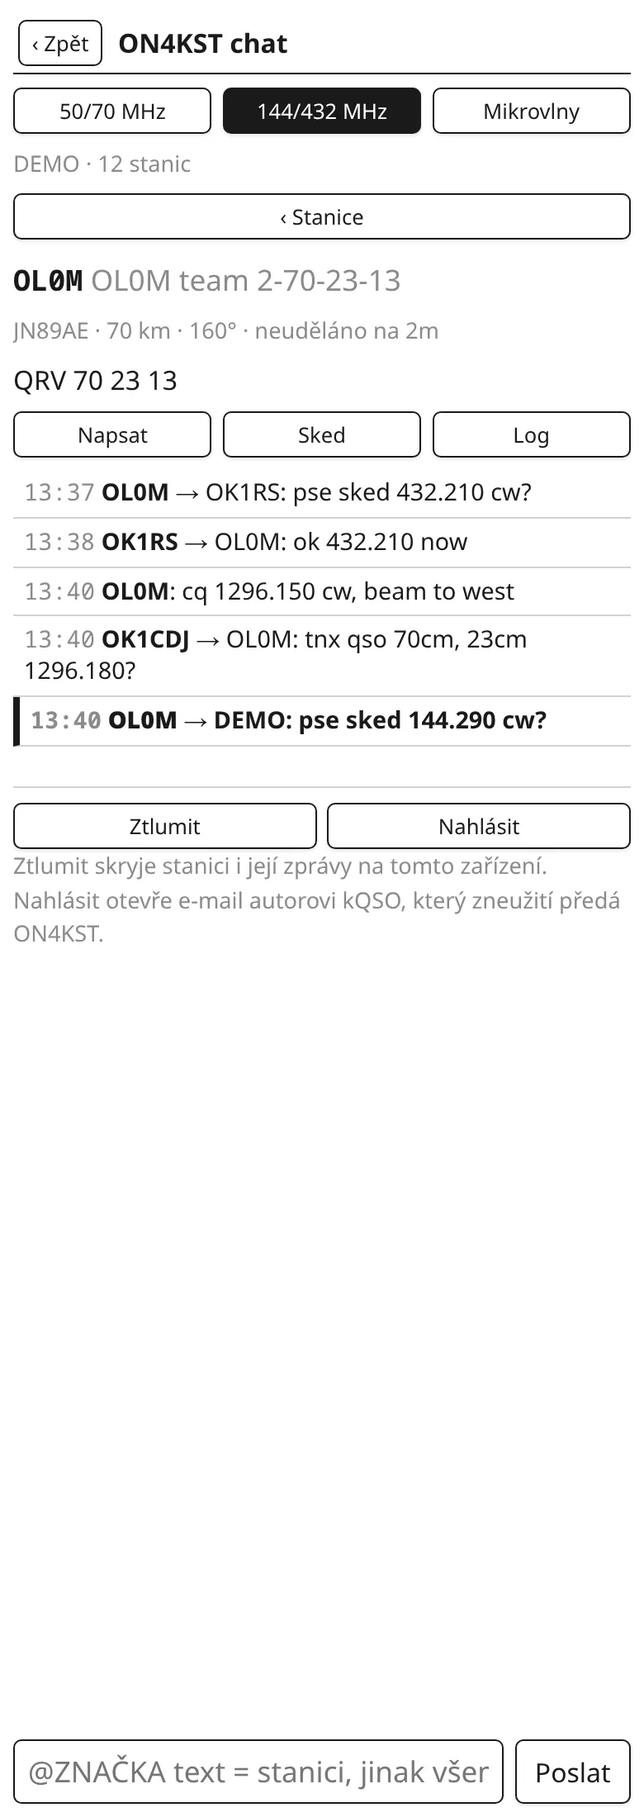
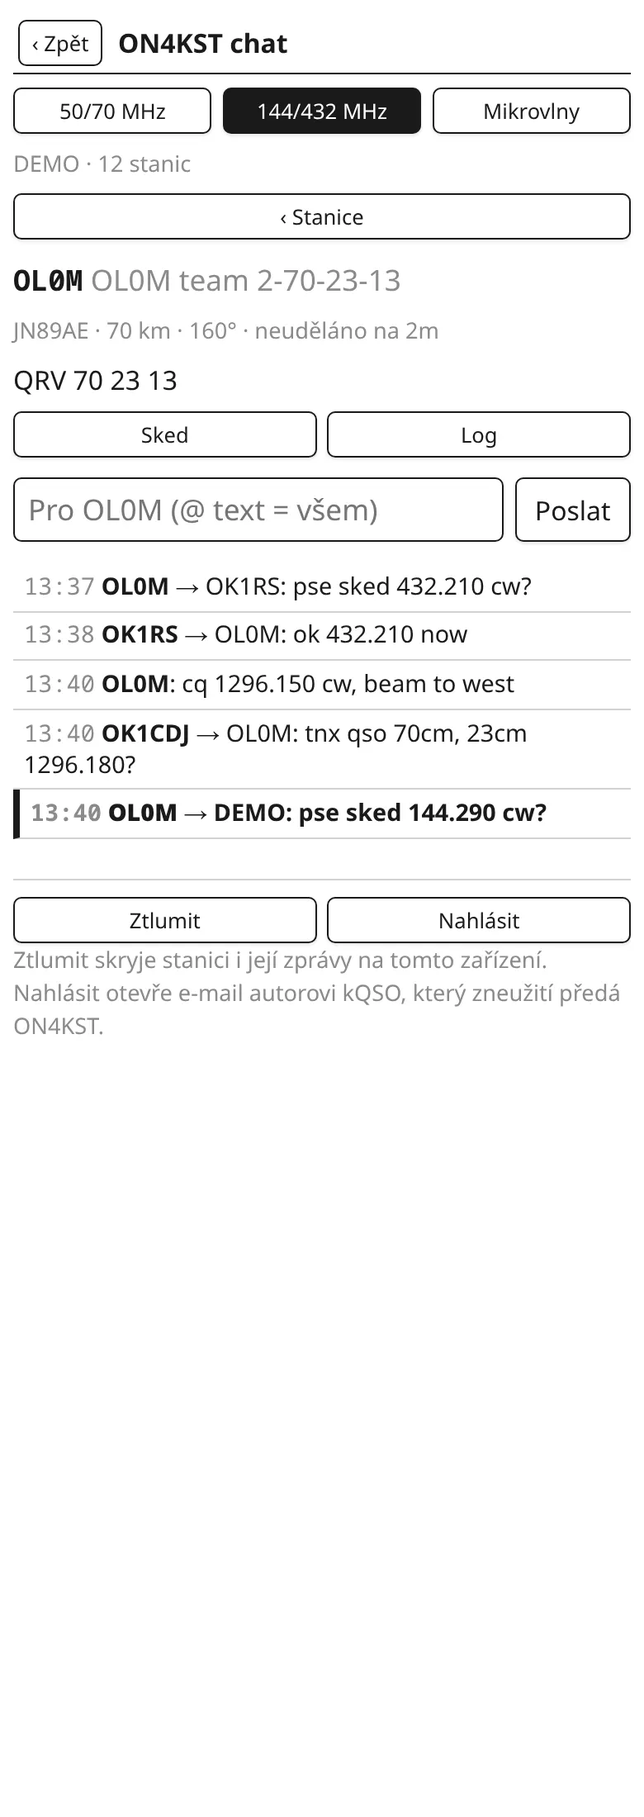
1.17 docs: CW decoder in the apps, scatter reports, chat changes
Manual cs/en (CW in the apps and the microphone, scatter / aurora
reports, stations up to N km, the message line in a station's details,
chat locators), chat screenshots regenerated, in-app help, the CW hint in
Settings, privacy policy (microphone), What's new 1.17, CHANGELOG, README,
Play changelogs 26.

Claude-Session: https://claude.ai/code/session_01UTFgsLe4XVZEAqmAnjRu9M

diff --git a/web/public/manual/cs.html b/web/public/manual/cs.html
@@ -75,6 +75,7 @@
 <h3 id="reports">Reporty</h3>
 <p>Mimo VKV závod je <b>holé číslo za značkou přijatý report</b>: <code>OK1ABC 57</code>. Odeslaný report je výchozí <b>59</b> (v CW <b>599</b>) a obvykle ho psát nemusíš. Když dáváš jiný, napiš ho s <b>T</b> na začátku: <code>OK1ABC 57 T55</code> = přijato 57, odesláno 55. Když přijatý report nenapíšeš vůbec, uloží se také 59 / 599. Štítky ukazují <b>RST</b> (přijatý) a <b>TX-RST</b> (odeslaný).</p>
 <p>Ve VKV závodě je holé číslo za značkou pořadové číslo, report se k němu připisuje zepředu (<code>57123</code>), viz výše.</p>
+<p><b>Scatter a aurora:</b> report s písmenem za značkou, <code>OK1ABC 59S</code> (rain / aircraft scatter) nebo <code>59A</code> (aurora, v CW <code>599A</code>). Ve VKV závodě i spojený s číslem: <code>59S012</code> nebo <code>59S 012</code>. Odeslaný report s písmenem napiš za značku jako <code>T59S</code>. Do EDI i ADIF se zapíše tak, jak je (<code>59S</code>).</p>
 
 <h3>Po částech, jak to slyšíš</h3>
 <p>Spojení <b>nemusí být celé na jednom řádku</b>. Každou část můžeš poslat zvlášť Enterem, třeba jak ji protistanice zrovna odvysílala: značku, pak číslo, pak lokátor. Štítky ukazují, co už máš a co chybí. Ve VKV závodě se spojení zapíše prázdným Enterem až ve chvíli, kdy má značku, číslo i lokátor; do té doby zůstane otevřené.</p>
@@ -83,10 +84,10 @@
 <figure class="crop"><img src="img/cs/logging-step2.webp" alt="Krok 2" width="390" height="170" loading="lazy"><figcaption>2. <code>123</code> ⏎: přibylo číslo.</figcaption></figure>
 <figure class="crop"><img src="img/cs/logging-step3.webp" alt="Krok 3" width="390" height="170" loading="lazy"><figcaption>3. <code>JN99AF</code>: lokátor, QRB a azimut. Pak ⏎ a prázdný ⏎ zapíše.</figcaption></figure>
 </div>
-<p>Překlep ve značce opravíš tak, že napíšeš novou: další značka nahradí tu předchozí, report a lokátor zůstanou. Ve VKV závodě můžeš začít i lokátorem, když ho uslyšíš první; lišta pak nabídne značky, které databáze na tom lokátoru zná.</p>
+<p>Překlep ve značce opravíš tak, že napíšeš novou: další značka nahradí tu předchozí, report a lokátor zůstanou. Ve VKV závodě můžeš začít i lokátorem, když ho uslyšíš první; lišta pak nabídne značky, které na tom lokátoru zná chat ON4KST (pokud je připojený) a databáze.</p>
 
 <h3>Návrhy, lokátor z databáze a duplicity</h3>
-<p>Od dvou znaků lišta nabízí značky z databáze (přibalený seznam pro typ logu plus stanice, se kterými už jsi pracoval). Klepnutí značku doplní. Když databáze zná lokátor stanice, nabídne ho jako <b>+ lokátor</b>: klepnutí (nebo Alt+X) ho vezme.</p>
+<p>Od dvou znaků lišta nabízí značky z databáze (přibalený seznam pro typ logu plus stanice, se kterými už jsi pracoval). Klepnutí značku doplní. Když lokátor stanice známe, nabídne ho jako <b>+ lokátor</b>: klepnutí (nebo Alt+X) ho vezme. Bere se z tohoto logu (stanice už je na jiném pásmu), ve VKV závodě s připojeným chatem pak lokátor, který si stanice nastavila v ON4KST (je dnešní), a nakonec z databáze.</p>
 <div class="figs">
 <figure class="crop"><img src="img/cs/logging-suggest.webp" alt="Návrhy" width="390" height="170" loading="lazy"><figcaption>Návrhy značek; inverzně ty, které už jsou v logu.</figcaption></figure>
 <figure class="crop"><img src="img/cs/logging-prefill.webp" alt="Lokátor z databáze" width="390" height="170" loading="lazy"><figcaption>Značka a číslo zapsané, databáze nabízí <b>+ JO50HV</b>.</figcaption></figure>
@@ -209,12 +210,12 @@
 <figure class="crop"><img src="img/cs/chat-consent.webp" alt="Pravidla chatu" width="374" height="424" loading="lazy"><figcaption>Pravidla před prvním připojením.</figcaption></figure>
 </div>
 <p><b>Zprávy:</b> nejnovější dole; zprávy pro tebe jsou tučně s čárou vlevo a <b>Jen pro mě</b> ukáže jen je. Zprávy stanic, které už máš na pásmu logu, jsou šedé. Klepnutí na zprávu napíše do řádku dole <code>@ZNAČKA</code> odesílatele, stačí dopsat text a Enter. <code>@OK1ABC text</code> jde stanici, text bez <code>@</code> všem v místnosti. Řádek přijme i příkazy ON4KST tak, jak jsou: <code>/SETNAME Ondra 2/70/23</code> (jméno, často s pásmy), <code>/SETLOC JN79US</code>.</p>
-<p><b>Stanice:</b> lokátor, vzdálenost a azimut od lokátoru logu. Řadí se podle značky, km nebo azimutu; druhé klepnutí na stejné řazení ho obrátí (▲ / ▼). <b>Skrýt hotové</b> schová stanice, které už máš na pásmu logu, <b>Skrýt away</b> ty, které jsou pryč. Nově příchozí stanice je podtržená. Za azimutem jsou <b>pásma, na kterých je stanice QRV</b> (kromě pásma logu, přeškrtnutá už máš): kQSO je čte ze jména (<code>Bert 2/70/23</code>, <code>6&amp;2m</code>), ze zpráv stanice (<code>qrv 1296.150</code>, <code>no 23</code>) a ze skedů, které jí přišly, a přidá ta z databáze značek. Stejně je ukáže i seznam pod závodním panelem a štítek QRV při zápisu spojení. <b>Sked</b> napíše do řádku žádost o sked, <b>Log</b> se vrátí do logu se značkou a lokátorem na řádku. Na úzkém displeji se jména nezobrazují.</p>
+<p><b>Stanice:</b> lokátor, vzdálenost a azimut od lokátoru logu. Řadí se podle značky, km nebo azimutu; druhé klepnutí na stejné řazení ho obrátí (▲ / ▼). <b>Skrýt hotové</b> schová stanice, které už máš na pásmu logu, <b>Skrýt away</b> ty, které jsou pryč. <b>Do … km</b> ukáže jen stanice do té vzdálenosti (výchozí 900 km; prázdné pole = bez omezení, stanice bez lokátoru zůstávají); platí i pro seznam pod závodním panelem. Nově příchozí stanice je podtržená. Za azimutem jsou <b>pásma, na kterých je stanice QRV</b> (kromě pásma logu, přeškrtnutá už máš): kQSO je čte ze jména (<code>Bert 2/70/23</code>, <code>6&amp;2m</code>), ze zpráv stanice (<code>qrv 1296.150</code>, <code>no 23</code>) a ze skedů, které jí přišly, a přidá ta z databáze značek. Stejně je ukáže i seznam pod závodním panelem a štítek QRV při zápisu spojení. <b>Sked</b> napíše do řádku žádost o sked, <b>Log</b> se vrátí do logu se značkou a lokátorem na řádku. Na úzkém displeji se jména nezobrazují.</p>
 <div class="figs">
 <figure class="phone"><img src="img/cs/chat-messages.webp" alt="Zprávy" width="390" height="844" loading="lazy"><figcaption>Zprávy; poslední je pro mě.</figcaption></figure>
 <figure class="phone"><img src="img/cs/chat-stations.webp" alt="Stanice" width="390" height="844" loading="lazy"><figcaption>Stanice podle vzdálenosti.</figcaption></figure>
 </div>
-<p><b>Detail stanice:</b> <b>⋯</b> u stanice nebo dlouhý stisk stanice či zprávy. Ukáže údaje stanice, jestli ji máš na pásmu, její zprávy a rozhovor s tebou a tlačítka Napsat, Sked a Log. Dole, stranou od tlačítek pro závod, jsou:</p>
+<p><b>Detail stanice:</b> <b>⋯</b> u stanice nebo dlouhý stisk stanice či zprávy. Ukáže údaje stanice, jestli ji máš na pásmu, tlačítka Sked a Log a pod nimi <b>řádek pro zprávu této stanici</b> (stačí text a Enter, odejde jako <code>@ZNAČKA text</code>), pak její zprávy a rozhovor s tebou. Dole, stranou od tlačítek pro závod, jsou:</p>
 <ul>
 <li><b>Ztlumit</b>: skryje stanici na tomto zařízení (v chatu, pod závodním panelem i v návrzích) a její zprávy pro tebe se nepočítají. Ztlumené stanice a zrušení ztlumení najdeš v Nastavení → ON4KST chat.</li>
 <li><b>Nahlásit</b>: otevře e-mail autorovi kQSO se stanicí a jejími zprávami (dlouze stisknutá zpráva první); zneužití předá ON4KST.</li>
@@ -325,10 +326,10 @@
 <figure class="crop"><img src="img/cs/settings-keyer-on.webp" alt="Klíčovač M5" width="374" height="1540" loading="lazy"><figcaption>Klíčovač M5: rychlost, ESM a makra pro VKV závod / RUN.</figcaption></figure>
 
 <h3 id="cw">CW dekodér</h3>
-<p>kQSO dekóduje CW ze zvuku rádia neuronovou sítí <a href="https://github.com/e04/web-deep-cw-decoder">DeepCW</a> (autor e04, licence MIT). Dekódovaný text běží pod hlavičkou logu a klepnutím na značku, report, číslo nebo lokátor ho vložíš do řádku. Běží v prohlížeči <b>Chrome</b> nebo <b>Edge</b> na počítači; Firefox, Safari a aplikace pro Android a iOS ho zatím nemají.</p>
+<p>kQSO dekóduje CW ze zvuku rádia neuronovou sítí <a href="https://github.com/e04/web-deep-cw-decoder">DeepCW</a> (autor e04, licence MIT). Dekódovaný text běží pod hlavičkou logu a klepnutím na značku, report, číslo nebo lokátor ho vložíš do řádku. Běží v aplikaci pro <b>Android</b> a <b>iOS</b> a na webu v prohlížeči <b>Chrome</b> nebo <b>Edge</b> na počítači; Firefox a Safari ho nemají.</p>
 <ul>
 <li><b>Zapnutí:</b> Nastavení → CW dekodér → <b>Stáhnout</b> (jednou asi 14 MB, pak funguje i bez sítě) → <b>Zapnout</b>. Dekodér poslouchá jen v otevřeném logu při módu CW; v SSB, FM a v seznamu logů je zvuk i dekodér v klidu. V logu ho zapíná a vypíná <kbd>Alt+U</kbd>.</li>
-<li><b>Zvukový vstup:</b> USB zvuková karta rádia (IC-7300, 9700, 705 … mají zvuk na stejném USB kabelu jako CI-V) nebo linkový vstup počítače. Poprvé prohlížeč požádá o povolení mikrofonu; tlačítko <i>Zobrazit zvukové vstupy</i> v Nastavení ho vyvolá dřív, aby šel vstup vybrat podle názvu.</li>
+<li><b>Zvukový vstup:</b> USB zvuková karta rádia (IC-7300, 9700, 705 … mají zvuk na stejném USB kabelu jako CI-V) nebo linkový vstup počítače. Na telefonu a tabletu stačí <b>mikrofon</b> u reproduktoru rádia nebo sluchátek, případně zvukový vstup přes USB. Poprvé se prohlížeč nebo aplikace zeptá na povolení mikrofonu; tlačítko <i>Zobrazit zvukové vstupy</i> v Nastavení ho vyvolá dřív, aby šel vstup vybrat podle názvu. Zvuk se dekóduje jen v zařízení a nikam se neposílá.</li>
 <li><b>Jiná záložka prohlížeče</b> (WebSDR, KiwiSDR): vyber ji jako vstup, v logu klepni na <i>Vyber záložku s SDR</i> a v nabídce prohlížeče zaškrtni <i>Sdílet také zvuk karty</i>. SDR přitom slyšíš dál.</li>
 <li><b>Výška CW tónu</b> v Nastavení má odpovídat nastavení CW pitch v rádiu (často 600–700 Hz). <b>Úzký model</b> (výchozí) dekóduje stanici právě na této výšce tónu a málo zatěžuje procesor. <b>Široký model</b> (dalších 15 MB) slyší vše mezi 400 a 1200 Hz nebo jen ve filtru kolem tónu; hodí se na slabý nebo ujíždějící signál.</li>
 </ul>

diff --git a/web/public/manual/en.html b/web/public/manual/en.html
@@ -75,6 +75,7 @@
 <h3 id="reports">Reports</h3>
 <p>Outside a VHF contest, <b>a bare number after the call is the received report</b>: <code>OK1ABC 57</code>. The sent report defaults to <b>59</b> (<b>599</b> in CW) and you usually don't type it. When you give another one, type it with a <b>T</b> in front: <code>OK1ABC 57 T55</code> = received 57, sent 55. If you don't type the received report at all, 59 / 599 is saved too. The chips show <b>RST</b> (received) and <b>TX-RST</b> (sent).</p>
 <p>In a VHF contest a bare number after the call is the serial; a report goes in front of it (<code>57123</code>), see above.</p>
+<p><b>Scatter and aurora:</b> a report with a letter after the call, <code>OK1ABC 59S</code> (rain / aircraft scatter) or <code>59A</code> (aurora, <code>599A</code> in CW). In a VHF contest also joined with the serial: <code>59S012</code> or <code>59S 012</code>. A sent report with a letter goes after the call as <code>T59S</code>. EDI and ADIF get it as it is (<code>59S</code>).</p>
 
 <h3>Piece by piece, as you hear it</h3>
 <p>A QSO <b>doesn't have to be on one line</b>. Send each part with its own Enter, the way the other station gave it: the call, then the number, then the locator. The chips show what you have and what is missing. In a VHF contest an empty Enter saves the QSO only once it has the call, the number and the locator; until then it stays open.</p>
@@ -83,10 +84,10 @@
 <figure class="crop"><img src="img/en/logging-step2.webp" alt="Step 2" width="390" height="170" loading="lazy"><figcaption>2. <code>123</code> ⏎: the number is in.</figcaption></figure>
 <figure class="crop"><img src="img/en/logging-step3.webp" alt="Step 3" width="390" height="170" loading="lazy"><figcaption>3. <code>JN99AF</code>: locator, QRB and azimuth. Then ⏎ and an empty ⏎ saves.</figcaption></figure>
 </div>
-<p>To fix a mistyped call, type the new one: a new call replaces the earlier one, the report and locator stay. In a VHF contest you can also start with the locator when you hear it first; the strip then offers the calls the database knows at that locator.</p>
+<p>To fix a mistyped call, type the new one: a new call replaces the earlier one, the report and locator stay. In a VHF contest you can also start with the locator when you hear it first; the strip then offers the calls the ON4KST chat (when connected) and the database know at that locator.</p>
 
 <h3>Suggestions, locator from the database, dupes</h3>
-<p>After two characters the strip offers calls from the database (the bundled list for the log type plus the stations you have worked). A tap fills the call in. When the database knows the station's locator, it offers it as <b>+ locator</b>: a tap (or Alt+X) takes it.</p>
+<p>After two characters the strip offers calls from the database (the bundled list for the log type plus the stations you have worked). A tap fills the call in. When the station's locator is known, it offers it as <b>+ locator</b>: a tap (or Alt+X) takes it. It comes from this log (the station is already in on another band), then in a VHF contest with the chat connected the locator the station has set in ON4KST (today's), and last from the database.</p>
 <div class="figs">
 <figure class="crop"><img src="img/en/logging-suggest.webp" alt="Suggestions" width="390" height="170" loading="lazy"><figcaption>Call suggestions; inverted ones are already in the log.</figcaption></figure>
 <figure class="crop"><img src="img/en/logging-prefill.webp" alt="Locator from the database" width="390" height="170" loading="lazy"><figcaption>Call and number in, the database offers <b>+ JO50HV</b>.</figcaption></figure>
@@ -209,12 +210,12 @@
 <figure class="crop"><img src="img/en/chat-consent.webp" alt="Chat rules" width="374" height="446" loading="lazy"><figcaption>The rules before the first connection.</figcaption></figure>
 </div>
 <p><b>Messages:</b> newest at the bottom; messages to you are bold with a bar on the left, and <b>Only to me</b> shows just those. Messages of stations you already have on the log's band are grey. A tap on a message puts the sender's <code>@CALL</code> into the line at the bottom: add the text and press Enter. <code>@OK1ABC text</code> goes to that station, text without <code>@</code> to everyone in the room. The line also takes ON4KST commands as typed: <code>/SETNAME Ondra 2/70/23</code> (the name, often with the bands), <code>/SETLOC JN79US</code>.</p>
-<p><b>Stations:</b> locator, distance and bearing from the log's locator. Sort by call, km or bearing; tapping the same sort again reverses it (▲ / ▼). <b>Hide worked</b> hides the stations you already have on the log's band, <b>Hide away</b> those who are away. A station that just joined is underlined. After the bearing come the <b>bands the station is QRV on</b> (except the log's band; struck out = already worked): kQSO reads them from the name (<code>Bert 2/70/23</code>, <code>6&amp;2m</code>), from the station's messages (<code>qrv 1296.150</code>, <code>no 23</code>) and from skeds sent to it, and adds those from the callsign database. The list under the contest panel and the QRV chip while logging show them too. <b>Sked</b> puts the sked request into the line, <b>Log</b> goes back to the log with the call and locator typed in. On a narrow screen the names are left out.</p>
+<p><b>Stations:</b> locator, distance and bearing from the log's locator. Sort by call, km or bearing; tapping the same sort again reverses it (▲ / ▼). <b>Hide worked</b> hides the stations you already have on the log's band, <b>Hide away</b> those who are away. <b>Up to … km</b> shows only the stations within that distance (900 km by default; an empty field = no limit, stations without a locator stay); it applies to the list under the contest panel too. A station that just joined is underlined. After the bearing come the <b>bands the station is QRV on</b> (except the log's band; struck out = already worked): kQSO reads them from the name (<code>Bert 2/70/23</code>, <code>6&amp;2m</code>), from the station's messages (<code>qrv 1296.150</code>, <code>no 23</code>) and from skeds sent to it, and adds those from the callsign database. The list under the contest panel and the QRV chip while logging show them too. <b>Sked</b> puts the sked request into the line, <b>Log</b> goes back to the log with the call and locator typed in. On a narrow screen the names are left out.</p>
 <div class="figs">
 <figure class="phone"><img src="img/en/chat-messages.webp" alt="Messages" width="390" height="844" loading="lazy"><figcaption>Messages; the last one is to me.</figcaption></figure>
 <figure class="phone"><img src="img/en/chat-stations.webp" alt="Stations" width="390" height="844" loading="lazy"><figcaption>Stations by distance.</figcaption></figure>
 </div>
-<p><b>Station details:</b> <b>⋯</b> on a station, or a long press on a station or a message. It shows the station, whether you have it on the band, its messages and your conversation, and Write, Sked and Log. At the bottom, away from the contest buttons:</p>
+<p><b>Station details:</b> <b>⋯</b> on a station, or a long press on a station or a message. It shows the station, whether you have it on the band, Sked and Log and under them <b>a line for a message to this station</b> (just the text and Enter, it goes as <code>@CALL text</code>), then its messages and your conversation. At the bottom, away from the contest buttons:</p>
 <ul>
 <li><b>Mute</b>: hides the station on this device (in the chat, under the contest panel and in the suggestions), and its messages to you are not counted. Muted stations, and unmuting, are in Settings → ON4KST chat.</li>
 <li><b>Report</b>: opens an e-mail to the kQSO author with the station and its messages (the long-pressed message first); abuse is passed on to ON4KST.</li>
@@ -325,10 +326,10 @@
 <figure class="crop"><img src="img/en/settings-keyer-on.webp" alt="M5 keyer" width="374" height="1540" loading="lazy"><figcaption>M5 keyer: speed, ESM and the VHF contest / RUN macros.</figcaption></figure>
 
 <h3 id="cw">CW decoder</h3>
-<p>kQSO decodes CW from the radio's audio with <a href="https://github.com/e04/web-deep-cw-decoder">DeepCW</a>, a neural network (by e04, MIT licence). The decoded text runs under the log's header, and a tap on a call, report, serial or locator puts it into the line. It runs in <b>Chrome</b> or <b>Edge</b> on a computer; Firefox, Safari and the Android and iOS apps don't have it yet.</p>
+<p>kQSO decodes CW from the radio's audio with <a href="https://github.com/e04/web-deep-cw-decoder">DeepCW</a>, a neural network (by e04, MIT licence). The decoded text runs under the log's header, and a tap on a call, report, serial or locator puts it into the line. It runs in the <b>Android</b> and <b>iOS</b> apps and on the web in <b>Chrome</b> or <b>Edge</b> on a computer; Firefox and Safari don't have it.</p>
 <ul>
 <li><b>Turning it on:</b> Settings → CW decoder → <b>Download</b> (about 14 MB once, then it works offline) → <b>Turn on</b>. The decoder listens only while a log is open in CW; in SSB, FM and in the list of logs the audio and the decoder rest. In a log <kbd>Alt+U</kbd> turns it on and off.</li>
-<li><b>Audio input:</b> the radio's USB sound card (the IC-7300, 9700, 705 … have audio on the same USB cable as CI-V) or the computer's line input. The first time the browser asks for the microphone permission; <i>Show the audio inputs</i> in Settings asks earlier, so the input can be picked by its name.</li>
+<li><b>Audio input:</b> the radio's USB sound card (the IC-7300, 9700, 705 … have audio on the same USB cable as CI-V) or the computer's line input. On a phone or tablet the <b>microphone</b> next to the radio's speaker or headphones is enough, or a USB audio input. The first time the browser or the app asks for the microphone permission; <i>Show the audio inputs</i> in Settings asks earlier, so the input can be picked by its name. The audio is decoded on the device and never sent anywhere.</li>
 <li><b>Another browser tab</b> (WebSDR, KiwiSDR): pick it as the input, in the log tap <i>Pick the tab with the SDR</i> and in the browser's dialog tick <i>Also share tab audio</i>. You keep hearing the SDR.</li>
 <li><b>CW pitch</b> in Settings should match the radio's CW pitch setting (often 600–700 Hz). The <b>narrow model</b> (default) decodes the station right at that pitch and is light on the CPU. The <b>wide model</b> (another 15 MB) hears everything between 400 and 1200 Hz, or only within a filter around the pitch; for a weak or drifting signal.</li>
 </ul>

diff --git a/web/public/privacy.html b/web/public/privacy.html
@@ -16,7 +16,7 @@
 </head>
 <body>
 <h1>kQSO — privacy policy</h1>
-<p class="muted">Applies to the kQSO apps for Android and iOS (iPhone, iPad) and the web app at kqso.ok1cdj.com. Last updated 2026-10-25.</p>
+<p class="muted">Applies to the kQSO apps for Android and iOS (iPhone, iPad) and the web app at kqso.ok1cdj.com. Last updated 2026-10-29.</p>
 
 <h2>Your data stays on your device</h2>
 <p>Logs, QSOs, the callsign database and settings are stored only on your device (Android: files in the app's storage; iOS: the app's Documents folder, which you also see in the Files app; web: the browser's private storage). kQSO has no account, no server of its own for your data, no ads and no analytics in the app.</p>
@@ -26,6 +26,7 @@
 <li><b>Offline references</b> — the lists of SOTA, POTA, WWFF, GMA and TOTA references come from kqso.ok1cdj.com by locator field (a square of about 1000 km, e.g. JO): the field around you after the locate button in an Activation log, others when you download them in Settings. The server sees your IP address and the field, never your position. The lists stay on your device and work offline.</li>
 <li><b>Wavelog push</b> — only when you tap it: the log is sent to the Wavelog server <i>you</i> set up, with your own API token.</li>
 <li><b>ON4KST chat</b> — only when you connect it (Settings → ON4KST chat, or the chat in a VHF contest log): kQSO logs in to the ON4KST chat (www.on4kst.org, run by ON4KST, not by kQSO) with your ON4KST call and password and sends there what you write. The ON4KST protocol is unencrypted, so the password travels in clear text; kQSO stores it only on your device. The Android and iOS apps connect to on4kst.org directly. A browser can't, so the web app goes through a relay at kst.kqso.ok1cdj.com, which only passes the data on: it never stores or logs the content (it logs only when a connection opens, closes or is refused and why, your IP address and the number of bytes). The chat's messages are kept in memory while the app runs and are not saved; muted stations and the sked settings are stored on your device like other settings. With the call DEMO nothing is sent anywhere. <b>Report</b> opens an e-mail to ondra@ok1cdj.com in your mail app with the station and its messages; nothing goes out until you send it.</li>
+<li><b>Microphone</b> — only when you turn on the CW decoder (Settings → CW decoder): kQSO records the radio's audio (the microphone or an audio input) and decodes it on your device. The audio is never stored or sent anywhere. The decoder's model files are downloaded once from kqso.ok1cdj.com when you tap Download; the server sees only your IP address.</li>
 <li><b>Rain radar</b> — only when you switch it on (off by default): map tiles are loaded from RainViewer (api.rainviewer.com, tilecache.rainviewer.com). They see your IP address and the map area, never any log data.</li>
 <li><b>New-version check</b> — Android app installed from GitHub only, at most once a day, switchable in Settings: asks the GitHub API for the latest release. Not done when the app comes from Google Play, and never in the iOS app (the App Store keeps it up to date).</li>
 <li><b>Web app statistics</b> — the web app (not the Android or iOS app) counts anonymous screen views and a few action names on a self-hosted Umami server (stats.ok1cdj.com), without cookies and never with log content. Switchable in Settings.</li>
@@ -49,7 +50,7 @@ Developed by Ondřej Koloničný, OK1CDJ. Source code: <a href="https://github.c
 
 <h1 lang="cs">kQSO — zásady ochrany soukromí</h1>
 <div lang="cs">
-<p class="muted">Platí pro aplikace kQSO pro Android a iOS (iPhone, iPad) a webovou aplikaci na kqso.ok1cdj.com. Aktualizováno 2026-10-25.</p>
+<p class="muted">Platí pro aplikace kQSO pro Android a iOS (iPhone, iPad) a webovou aplikaci na kqso.ok1cdj.com. Aktualizováno 2026-10-29.</p>
 
 <h2>Data zůstávají v zařízení</h2>
 <p>Logy, QSO, databáze značek i nastavení jsou uložené jen ve tvém zařízení (Android: soubory v úložišti aplikace; iOS: složka Dokumenty aplikace, kterou vidíš i v aplikaci Soubory; web: soukromé úložiště prohlížeče). kQSO nemá účet, nemá vlastní server pro tvoje data, nemá reklamy ani analytiku v aplikaci.</p>
@@ -59,6 +60,7 @@ Developed by Ondřej Koloničný, OK1CDJ. Source code: <a href="https://github.c
 <li><b>Reference offline</b> — seznamy referencí SOTA, POTA, WWFF, GMA a TOTA se stahují z kqso.ok1cdj.com po lokátorových polích (čtverec asi 1000 km, např. JO): pole kolem tebe po tlačítku polohy v logu Aktivace, další, když je stáhneš v Nastavení. Server vidí tvoji IP adresu a pole, nikdy polohu. Seznamy zůstávají v zařízení a fungují offline.</li>
 <li><b>Odeslání do Wavelogu</b> — jen když na něj klepneš: log jde na server Wavelogu, který si nastavíš <i>ty</i>, s tvým vlastním API tokenem.</li>
 <li><b>ON4KST chat</b> — jen když ho připojíš (Nastavení → ON4KST chat nebo chat v logu VKV závodu): kQSO se přihlásí do chatu ON4KST (www.on4kst.org, provozuje ho ON4KST, ne kQSO) tvojí značkou a heslem ON4KST a posílá tam, co napíšeš. Protokol ON4KST je nešifrovaný, heslo tedy jde jako čitelný text; kQSO ho ukládá jen ve tvém zařízení. Aplikace pro Android a iOS se k on4kst.org připojují přímo. Prohlížeč to neumí, proto webová aplikace jde přes relé na kst.kqso.ok1cdj.com, které data jen předává: obsah nikdy neukládá ani nezapisuje do logu (zapisuje jen otevření, zavření nebo odmítnutí spojení a jeho důvod, tvoji IP adresu a počet bajtů). Zprávy z chatu jsou jen v paměti, dokud aplikace běží, a neukládají se; ztlumené stanice a nastavení skedů se ukládají v zařízení jako ostatní nastavení. Se značkou DEMO se nikam nic neposílá. <b>Nahlásit</b> otevře v tvé poštovní aplikaci e-mail na ondra@ok1cdj.com se stanicí a jejími zprávami; nic neodejde, dokud ho neodešleš.</li>
+<li><b>Mikrofon</b> — jen když zapneš CW dekodér (Nastavení → CW dekodér): kQSO nahrává zvuk rádia (mikrofon nebo zvukový vstup) a dekóduje ho ve tvém zařízení. Zvuk se nikdy neukládá ani nikam neposílá. Soubory modelu dekodéru se jednou stáhnou z kqso.ok1cdj.com, když klepneš na Stáhnout; server vidí jen tvoji IP adresu.</li>
 <li><b>Srážkový radar</b> — jen když ho zapneš (výchozí vypnuto): dlaždice mapy se načítají z RainViewer (api.rainviewer.com, tilecache.rainviewer.com). Vidí tvoji IP adresu a oblast mapy, nikdy data z logu.</li>
 <li><b>Kontrola nové verze</b> — jen aplikace pro Android nainstalovaná z GitHubu, nejvýš jednou denně, vypínatelná v Nastavení: zeptá se GitHub API na poslední vydání. Neprobíhá, když je aplikace z Google Play, a nikdy v aplikaci pro iOS (aktualizuje ji App Store).</li>
 <li><b>Statistiky webové aplikace</b> — webová aplikace (ne aplikace pro Android ani iOS) počítá anonymní zobrazení obrazovek a několik názvů akcí na vlastním serveru Umami (stats.ok1cdj.com), bez cookies a nikdy s obsahem logu. Vypínatelné v Nastavení.</li>

diff --git a/web/src/ui/screens/help.ts b/web/src/ui/screens/help.ts
@@ -48,6 +48,7 @@ const EN: readonly Section[] = [
     rows: [
       { code: '59', text: 'A bare number after the call is the received report. Default 59 (SSB/FM) or 599 (CW).' },
       { code: 'T57', text: 'Override the sent report (rarely needed).' },
+      { code: '59S', text: 'Scatter (59S) or aurora (59A, 599A in CW) report after the call; sent with T: T59S.' },
     ],
   },
   {
@@ -65,9 +66,10 @@ const EN: readonly Section[] = [
     rows: [
       { code: '002', text: 'A bare number is the serial (report stays 59).' },
       { code: '58123', text: 'To send another report, join it: first 2 chars (SSB/FM) or 3 (CW) = report, rest = serial → 58 + 123.' },
+      { code: '59S012', text: 'Scatter / aurora report with the serial, joined or spaced (59S 012).' },
       { code: '59 001', text: 'Spaced report + serial works too. Your sent serial auto-increments (the boxed number in the header).' },
       { text: 'A QSO is saved only with the callsign, the received number and the locator; until then the preview marks NR / LOC with — and an empty Enter keeps the QSO open.' },
-      { code: 'JO70VA ⏎ … OK1ABC 007 ⏎', text: 'Locator heard first: a full locator counts even before the call — QRB and azimuth at once, and the strip offers the calls the database knows at that locator. The call (tap or type) completes the QSO later.' },
+      { code: 'JO70VA ⏎ … OK1ABC 007 ⏎', text: 'Locator heard first: a full locator counts even before the call — QRB and azimuth at once, and the strip offers the calls the ON4KST chat (when connected) and the database know at that locator. The call (tap or type) completes the QSO later.' },
       { text: 'Points: 1 per km between locator centres (IARU R1). The preview shows QRB as soon as the locator is typed, the header the azimuth (e.g. 146°), grey while it only comes from the callsign database. Each station counts once per band — a repeat, even in another mode, is a dupe with 0 points.' },
       { text: 'QSO list: points per QSO and a score line per band (QSO · points · WWL · ODX). Log list → EDI: the file for the contest manager, one per band, each band with its own power, antenna and rig (remembered for the next contest); the ADIF keeps all bands. New log picks the contest (IARU R1, VKV PA, FM pohár) and a 6-hour entry; SO / MO / CHECK is chosen at the export, LP / QRP on 145 / 435 MHz follows the power; each band gets its PSect and the ČRK file name (01OK1XXX.edi). A 6-hour entry shows the time left in the header (in brackets during the break of 2 h or more). VKV PA and FM pohár score by large-square rings (own square 2, the next ring 3, …), VKV PA × the squares worked; FM pohár\'s EDI screen shows the summary for its web form, to copy.' },
       { text: 'Landscape (tablet, PC) with the system keyboard or none: the serial to give next in big digits at the top right (as in the header), with the UTC clock, the band\'s QSO count, the rate (last 60 / 10 min), the points, the average and the ODX.' },
@@ -199,6 +201,7 @@ const CS: readonly Section[] = [
     rows: [
       { code: '59', text: 'Holé číslo za volačkou je přijatý report. Výchozí 59 (SSB/FM) nebo 599 (CW).' },
       { code: 'T57', text: 'Přepis vyslaného reportu (zřídka).' },
+      { code: '59S', text: 'Scatter (59S) nebo aurora (59A, v CW 599A) report za volačkou; vyslaný s T: T59S.' },
     ],
   },
   {
@@ -216,9 +219,10 @@ const CS: readonly Section[] = [
     rows: [
       { code: '002', text: 'Holé číslo je pořadové číslo (report zůstane 59).' },
       { code: '58123', text: 'Pro jiný report ho napiš spojeně: první 2 znaky (SSB/FM) nebo 3 (CW) = report, zbytek = číslo → 58 + 123.' },
+      { code: '59S012', text: 'Scatter / aurora report s číslem, spojeně nebo s mezerou (59S 012).' },
       { code: '59 001', text: 'Funguje i s mezerou. Tvé vyslané číslo se počítá samo (číslo v rámečku v hlavičce).' },
       { text: 'QSO se uloží jen se značkou, přijatým číslem a lokátorem; do té doby náhled ukazuje u NR / LOC — a prázdný Enter nechá QSO otevřené.' },
-      { code: 'JO70VA ⏎ … OK1ABC 007 ⏎', text: 'Lokátor slyšíš dřív: celý lokátor platí i před značkou — hned QRB a azimut a lišta nabídne značky, které databáze u toho lokátoru zná. Značka (klepnutím nebo napsaná) pak QSO doplní.' },
+      { code: 'JO70VA ⏎ … OK1ABC 007 ⏎', text: 'Lokátor slyšíš dřív: celý lokátor platí i před značkou — hned QRB a azimut a lišta nabídne značky, které u toho lokátoru zná chat ON4KST (pokud je připojený) a databáze. Značka (klepnutím nebo napsaná) pak QSO doplní.' },
       { text: 'Body: 1 za km mezi středy lokátorů (IARU R1). Náhled ukáže QRB, jakmile napíšeš lokátor, hlavička azimut (např. 146°), šedě, dokud je jen z databáze značek. Každá stanice se počítá jednou na pásmo — opakování, i jiným módem, je duplicita za 0 bodů.' },
       { text: 'Seznam QSO: body u každého QSO a řádek za pásmo (QSO · body · WWL · ODX). Seznam logů → EDI: soubor pro vyhodnocovatele, jeden za pásmo, každé pásmo s vlastním výkonem, anténou a zařízením (zapamatuje se na příští závod); ADIF drží všechna pásma. Nový log volí závod (IARU R1, VKV PA, FM pohár) a účast na 6 hodin; SO / MO / CHECK se volí při exportu, LP / QRP na 145 / 435 MHz podle výkonu; každé pásmo dostane svůj PSect a název souboru podle ČRK (01OK1XXX.edi). U kategorie 6 hodin ukazuje hlavička zbývající čas (v závorce během přestávky 2 h a delší). VKV PA a FM pohár boduje podle pásů velkých čtverců (vlastní čtverec 2, další pás 3, …), VKV PA × pracované čtverce; u FM poháru ukáže obrazovka EDI souhrn pro webový formulář, ke zkopírování.' },
       { text: 'Na šířku (tablet, PC) se systémovou klávesnicí nebo bez klávesnice: vpravo nahoře velké pořadové číslo, které dáváš protistanici (jako v hlavičce), pod ním čas UTC, počet QSO na pásmu, rate (posledních 60 / 10 min), body, průměr a ODX.' },

diff --git a/web/src/ui/i18n.ts b/web/src/ui/i18n.ts
@@ -251,7 +251,7 @@ const en = {
   'settings.wlForget': 'Forget token',
   'settings.wlForgotten': 'Token removed.',
   'settings.cw': 'CW decoder',
-  'settings.cwAbout': "Decodes CW from the radio's audio (its USB sound card or a line input) with DeepCW, a neural network. It listens only while a log is open in CW; the text runs under its header, and a tap on a call, report or locator puts it into the log line. Alt+U turns it on and off.",
+  'settings.cwAbout': "Decodes CW from the radio's audio (its USB sound card, a line input, or on a phone the microphone next to the speaker) with DeepCW, a neural network, on this device; the audio goes nowhere. It listens only while a log is open in CW; the text runs under its header, and a tap on a call, report or locator puts it into the log line. Alt+U turns it on and off.",
   'settings.cwModel': 'Model',
   'settings.cwNarrow': 'Narrow',
   'settings.cwWide': 'Wide',
@@ -688,7 +688,7 @@ const cs: Record<keyof typeof en, string> = {
   'settings.wlForget': 'Zapomenout token',
   'settings.wlForgotten': 'Token odstraněn.',
   'settings.cw': 'CW dekodér',
-  'settings.cwAbout': 'Dekóduje CW ze zvuku rádia (jeho USB zvuková karta nebo linkový vstup) neuronovou sítí DeepCW. Poslouchá jen v otevřeném logu při módu CW; text běží pod jeho hlavičkou a klepnutím na značku, report nebo lokátor ho vložíš do řádku. Alt+U zapíná a vypíná.',
+  'settings.cwAbout': 'Dekóduje CW ze zvuku rádia (jeho USB zvuková karta, linkový vstup, na telefonu mikrofon u reproduktoru) neuronovou sítí DeepCW přímo v zařízení; zvuk se nikam neposílá. Poslouchá jen v otevřeném logu při módu CW; text běží pod jeho hlavičkou a klepnutím na značku, report nebo lokátor ho vložíš do řádku. Alt+U zapíná a vypíná.',
   'settings.cwModel': 'Model',
   'settings.cwNarrow': 'Úzký',
   'settings.cwWide': 'Široký',

diff --git a/web/src/core/whatsnew.ts b/web/src/core/whatsnew.ts
@@ -14,6 +14,21 @@ export interface WhatsNewEntry {
 /** Newest first. */
 export const WHATS_NEW: readonly WhatsNewEntry[] = [
   {
+    version: '1.17',
+    cs: [
+      'CW dekodér i v aplikacích pro Android a iOS: poslouchá mikrofonem u reproduktoru rádia nebo zvukovým vstupem přes USB. Zvuk se dekóduje jen v telefonu. Nastavení → CW dekodér.',
+      'ON4KST chat: stanice jen do zvolené vzdálenosti (výchozí 900 km), zprávu stanici napíšeš přímo v jejím detailu a lokátor, který si stanice nastavila v chatu, se nabídne v logu.',
+      'Scatter a aurora reporty: 59S, 59A (v CW 599A); ve VKV závodě i s číslem, 59S012.',
+      'Hlavička logu na úzkém telefonu se zalomí do dvou řádků, azimut a čas 6H se už neuříznou.',
+    ],
+    en: [
+      'The CW decoder in the Android and iOS apps too: it listens through the microphone next to the radio\'s speaker or a USB audio input. The audio is decoded on the phone only. Settings → CW decoder.',
+      'ON4KST chat: stations only up to a distance you set (900 km by default), a message to a station right in its details, and the locator a station has set in the chat is offered in the log.',
+      'Scatter and aurora reports: 59S, 59A (599A in CW); in a VHF contest with the serial too, 59S012.',
+      'The log header on a narrow phone wraps to two rows; the azimuth and the 6H time are no longer cut off.',
+    ],
+  },
+  {
     version: '1.16',
     cs: [
       'CW dekodér na webu (Chrome / Edge na počítači; v aplikacích zatím není): neuronová síť DeepCW dekóduje CW ze zvuku rádia (USB zvuková karta) nebo z jiné záložky s WebSDR / KiwiSDR. Text běží v logu při CW, klepnutím na značku, report nebo lokátor ho vložíš do řádku; ladička ukáže, kde signál je. Nastavení → CW dekodér, Alt+U; podrobně v návodu.',

diff --git a/CHANGELOG.md b/CHANGELOG.md
@@ -4,6 +4,14 @@ What changed in each kQSO release: the web app (kqso.ok1cdj.com), the Android ap
 
 ## [Unreleased]
 
+### Added
+- **CW decoder in the Android and iOS apps**: the microphone (next to the radio's speaker) or a USB audio input; the app asks for the microphone on the first Turn on, and the audio is decoded on the device only (privacy policy updated). Android: `RECORD_AUDIO`, the WebView's audio request granted (audio only). iOS: the microphone usage text, WebKit's capture request granted for the microphone only. WebKit can't record into a 9600 Hz AudioContext, so outside Chrome the audio is taken at the device rate and resampled in the app (windowed-sinc low-pass, linear interpolation); tested with the real models from 44.1 and 48 kHz.
+- **Scatter and aurora reports**: `59S`, `59A`, `599A` after the call; in a VHF contest joined with the serial (`59S012`) or apart (`59S 012`); `T59S` after the call as the sent report (before the call `T70A` stays a call). Written to EDI and ADIF as they are, as ČRK's EDI logs have them.
+- **ON4KST chat**:
+  - Stations **up to N km** (900 km by default, empty = no limit; stations without a locator stay), also under the contest panel.
+  - A **line for a message** right in a station's details (plain text goes to that station); the Write button is gone.
+  - A call's **locator from the chat** (what the station has set today) is offered in the log before the callsign database's; `DL1ABC/P` finds `DL1ABC`. A locator typed first offers the chat's stations on it first.
+
 ### Changed
 - **iOS app in the App Store**: the web app on iPhone / iPad offers it on the log list (instead of the add-to-home hint) and in Settings → About; README and the manual link it.
 - **Log header on phones**: when the band, serial, keyer, radio, azimuth and 6H don't fit on one row, they wrap to a second one instead of being cut off (the azimuth and the 6H time were lost); on a narrow phone the QSO button shows only the count (`12 ›`).

diff --git a/README.md b/README.md
@@ -57,8 +57,8 @@ and the map.
   its Bluetooth, any Icom on a USB cable / CT-17 (Chrome / Edge on a computer) or through
   the keyer: macros, ESM, band / mode / frequency from
   the radio, voice memories, transverters.
-- **CW decoder** (Chrome / Edge on a computer): [DeepCW](https://github.com/e04/web-deep-cw-decoder)
-  decodes the radio's audio (USB sound card) or a WebSDR / KiwiSDR tab; a tap puts a call,
+- **CW decoder** (Android and iOS apps, web in Chrome / Edge on a computer): [DeepCW](https://github.com/e04/web-deep-cw-decoder)
+  decodes the radio's audio (USB sound card, the phone's microphone) or a WebSDR / KiwiSDR tab; a tap puts a call,
   report or locator into the line.
 - **E-ink and standard display**, light and dark theme, English and Czech.
 
@@ -184,8 +184,9 @@ tokens are ignored. See **Settings → How to log** in the app for the full gram
   The radio must be in CW (else kQSO says so); with break-in off only the sidetone sounds.
   Safety: CW is handed over in parts of up to 30 characters; if the link drops while
   sending, the radio still finishes the part it has (the M5 keyer stops at once).
-- **CW decoder** (web in Chrome / Edge on a computer; off by default; Settings → CW
-  decoder, Alt+U): [DeepCW](https://github.com/e04/web-deep-cw-decoder) by e04 (MIT), a
+- **CW decoder** (Android and iOS apps, web in Chrome / Edge on a computer; off by
+  default; Settings → CW decoder, Alt+U; outside Chrome the audio is resampled to 9600 Hz
+  in `core/cw/resample.ts`, as WebKit can't record into a 9600 Hz AudioContext): [DeepCW](https://github.com/e04/web-deep-cw-decoder) by e04 (MIT), a
   CTC neural network over a spectrogram, run by `onnxruntime-web` (WASM, one thread) in a
   worker (`web/src/core/cw/`, `web/src/ui/cw/`). The runtime and the models are not in the
   bundle or the APK: `deploy.yml` puts them under `cw/` (`web/scripts/cwdata.py`: the models
